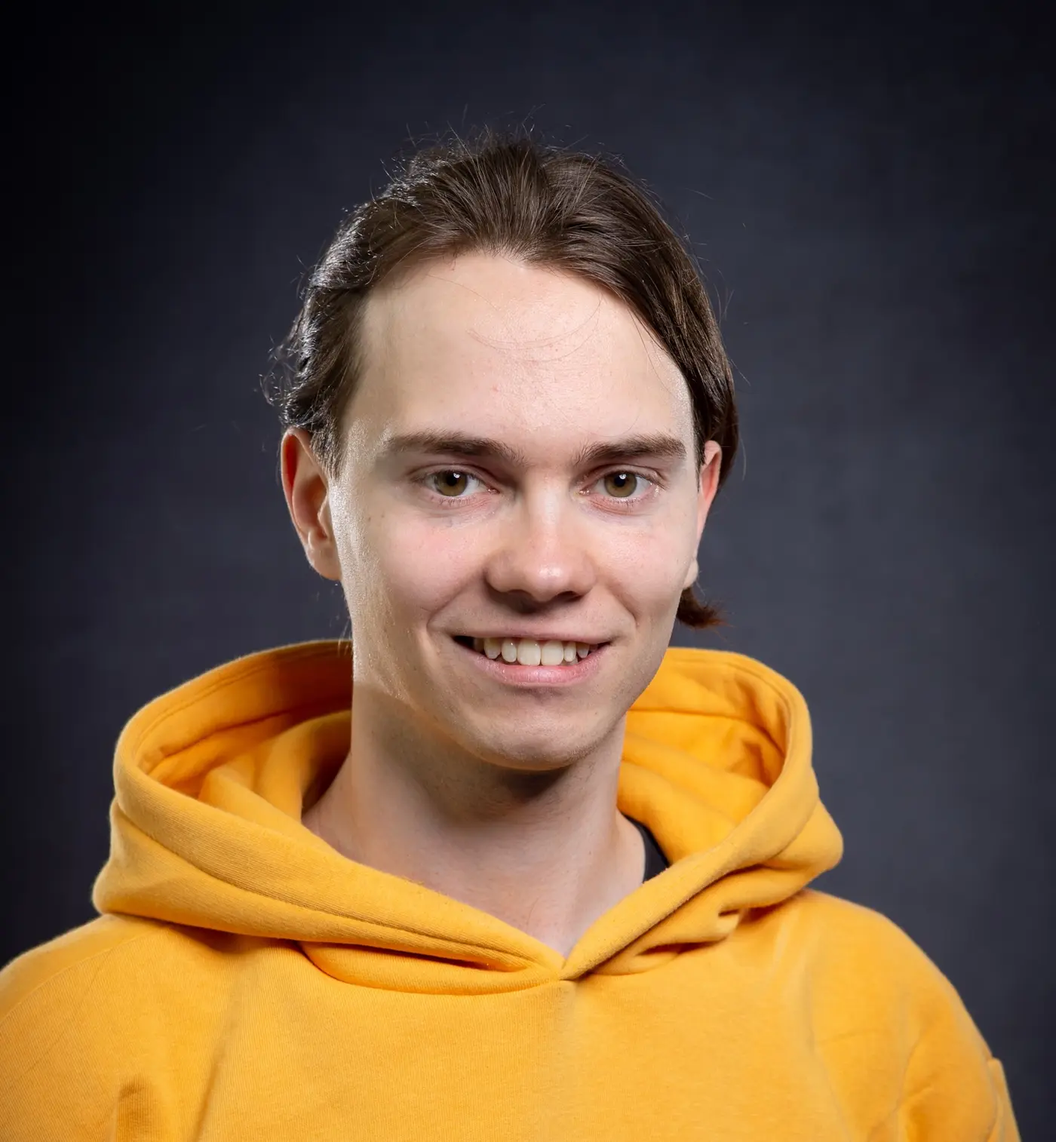
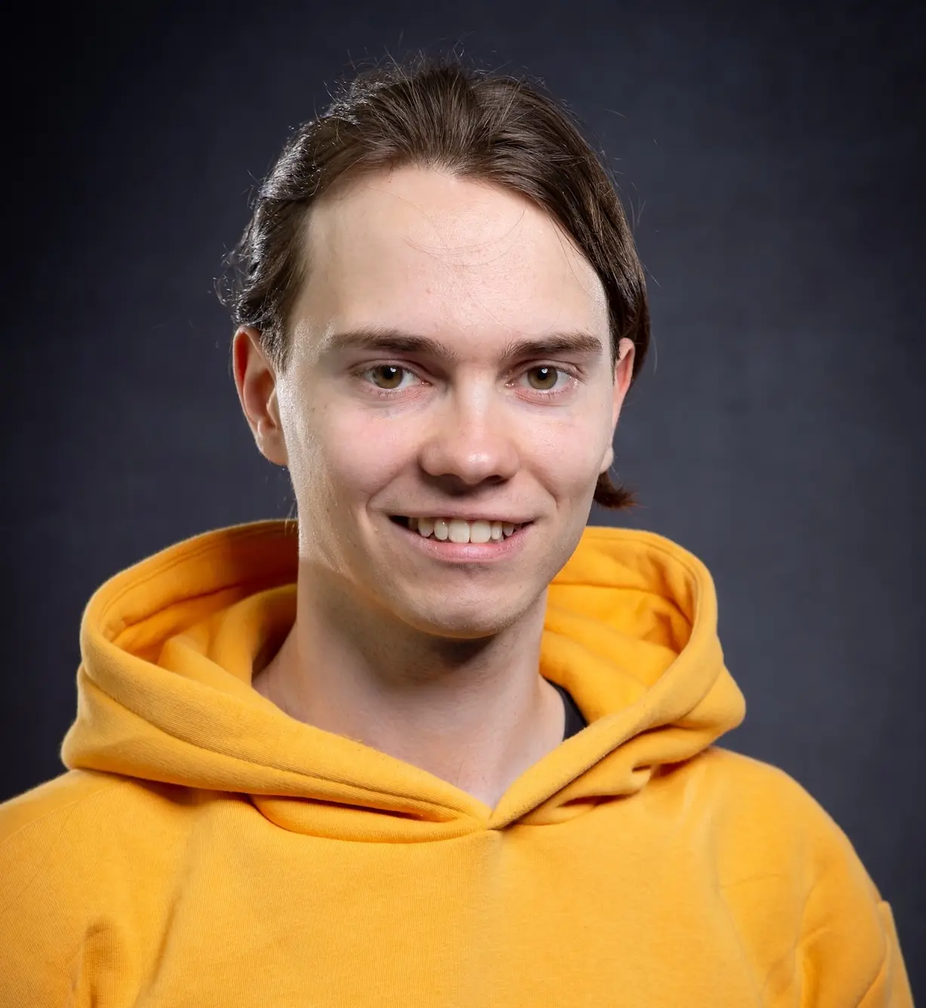
Deploying to gh-pages from @ trl-lab/trl-lab.github.io@b034dde033617641a6027af4285fbed842609a7c 🚀

diff --git a/people/index.html b/people/index.html
@@ -1,4 +1,4 @@
-<!DOCTYPE html> <html lang="en"> <head> <meta http-equiv="Content-Type" content="text/html; charset=UTF-8"> <meta charset="utf-8"> <meta name="viewport" content="width=device-width, initial-scale=1, shrink-to-fit=no"> <meta http-equiv="X-UA-Compatible" content="IE=edge"> <title> People | TRL Lab </title> <meta name="author" content=" "> <meta name="description" content="Members and collaborators of the TRL lab"> <meta name="keywords" content="jekyll, jekyll-theme, academic-website, portfolio-website"> <link rel="stylesheet" href="/assets/css/bootstrap.min.css?a4b3f509e79c54a512b890d73235ef04"> <link rel="stylesheet" href="https://cdn.jsdelivr.net/npm/mdbootstrap@4.20.0/css/mdb.min.css" integrity="sha256-jpjYvU3G3N6nrrBwXJoVEYI/0zw8htfFnhT9ljN3JJw=" crossorigin="anonymous"> <link defer rel="stylesheet" href="/assets/css/academicons.min.css?f0b7046b84e425c55f3463ac249818f5"> <link defer rel="stylesheet" href="/assets/css/scholar-icons.css?62b2ac103a88034e6882a5be5f3e2772"> <link defer rel="stylesheet" type="text/css" href="https://fonts.googleapis.com/css?family=Roboto:300,400,500,700|Roboto+Slab:100,300,400,500,700|Material+Icons&amp;display=swap"> <link defer rel="stylesheet" href="/assets/css/jekyll-pygments-themes-github.css?591dab5a4e56573bf4ef7fd332894c99" media="" id="highlight_theme_light"> <link rel="shortcut icon" href="/assets/img/trl-lab-logo.jpg?8d1b6aa69168ea44dfed1a81e9adb7d0"> <link rel="stylesheet" href="/assets/css/main.css?d41d8cd98f00b204e9800998ecf8427e"> <link rel="canonical" href="https://trl-lab.github.io//people/"> <script src="/assets/js/theme.js?9a0c749ec5240d9cda97bc72359a72c0"></script> </head> <body class="fixed-top-nav "> <header> <nav id="navbar" class="navbar navbar-light navbar-expand-sm fixed-top" role="navigation"> <div class="container"> <a class="navbar-brand title font-weight-lighter" href="/"> TRL Lab </a> <button class="navbar-toggler collapsed ml-auto" type="button" data-toggle="collapse" data-target="#navbarNav" aria-controls="navbarNav" aria-expanded="false" aria-label="Toggle navigation"> <span class="sr-only">Toggle navigation</span> <span class="icon-bar top-bar"></span> <span class="icon-bar middle-bar"></span> <span class="icon-bar bottom-bar"></span> </button> <div class="collapse navbar-collapse text-right" id="navbarNav"> <ul class="navbar-nav ml-auto flex-nowrap"> <li class="nav-item "> <a class="nav-link" href="/">About </a> </li> <li class="nav-item active"> <a class="nav-link" href="/people/">People <span class="sr-only">(current)</span> </a> </li> <li class="nav-item "> <a class="nav-link" href="/publications/">Publications </a> </li> <li class="nav-item "> <a class="nav-link" href="/open-positions/">Open positions </a> </li> <li class="nav-item "> <a class="nav-link" href="/blog/">Blog </a> </li> <li class="nav-item dropdown "> <a class="nav-link dropdown-toggle" href="#" id="navbarDropdown" role="button" data-toggle="dropdown" aria-haspopup="true" aria-expanded="false">Events </a> <div class="dropdown-menu dropdown-menu-right" aria-labelledby="navbarDropdown"> <a class="dropdown-item " href="/trl-seminar/">TRL seminar</a> <a class="dropdown-item " href="/trl-reading-group/">TRL reading group</a> </div> </li> </ul> </div> </div> </nav> <progress id="progress" value="0"> <div class="progress-container"> <span class="progress-bar"></span> </div> </progress> </header> <div class="container mt-5" role="main"> <div class="post"> <header class="post-header"> <h1 class="post-title">People</h1> <p class="post-description">Members and collaborators of the TRL lab</p> </header> <article> <div class="people"> <a id="current" href=".#current"> <h2 class="category">current</h2> </a> <div class="row row-cols-1 row-cols-md-3"> <div class="col"> <a href="https://www.madelonhulsebos.com" rel="external nofollow noopener" target="_blank"> <div class="card h-100 hoverable"> <figure> <picture> <source class="responsive-img-srcset" srcset="/assets/img/madelon-hulsebos-480.webp 480w,/assets/img/madelon-hulsebos-800.webp 800w,/assets/img/madelon-hulsebos-1400.webp 1400w," type="image/webp" sizes="250px"></source> <img src="/assets/img/madelon-hulsebos.jpeg" class="card-img-top" width="100%" height="auto" loading="eager" onerror="this.onerror=null; $('.responsive-img-srcset').remove();"> </picture> </figure> <div class="card-body"> <h4 class="card-title">Madelon Hulsebos</h4> <p class="card-text">Faculty</p> <div class="row ml-1 mr-1 p-0"> </div> </div> </div> </a> </div> <div class="col"> <a href="https://aeciosantos.com/" rel="external nofollow noopener" target="_blank"> <div class="card h-100 hoverable"> <figure> <picture> <source class="responsive-img-srcset" srcset="/assets/img/aecio-santos-480.webp 480w,/assets/img/aecio-santos-800.webp 800w,/assets/img/aecio-santos-1400.webp 1400w," type="image/webp" sizes="250px"></source> <img src="/assets/img/aecio-santos.jpeg" class="card-img-top" width="100%" height="auto" loading="eager" onerror="this.onerror=null; $('.responsive-img-srcset').remove();"> </picture> </figure> <div class="card-body"> <h4 class="card-title">Aécio Santos</h4> <p class="card-text">Postdoctoral researcher</p> <div class="row ml-1 mr-1 p-0"> </div> </div> </div> </a> </div> <div class="col"> <a href="https://effyli.github.io/" rel="external nofollow noopener" target="_blank"> <div class="card h-100 hoverable"> <figure> <picture> <source class="responsive-img-srcset" srcset="/assets/img/xue-li-480.webp 480w,/assets/img/xue-li-800.webp 800w,/assets/img/xue-li-1400.webp 1400w," type="image/webp" sizes="250px"></source> <img src="/assets/img/xue-li.png" class="card-img-top" width="100%" height="auto" loading="eager" onerror="this.onerror=null; $('.responsive-img-srcset').remove();"> </picture> </figure> <div class="card-body"> <h4 class="card-title">Xue (Effy) Li</h4> <p class="card-text">Postdoctoral researcher</p> <div class="row ml-1 mr-1 p-0"> </div> </div> </div> </a> </div> <div class="col"> <a href="https://www.daniel-gomm.com/" rel="external nofollow noopener" target="_blank"> <div class="card h-100 hoverable"> <figure> <picture> <source class="responsive-img-srcset" srcset="/assets/img/daniel-gomm-480.webp 480w,/assets/img/daniel-gomm-800.webp 800w,/assets/img/daniel-gomm-1400.webp 1400w," type="image/webp" sizes="250px"></source> <img src="/assets/img/daniel-gomm.jpg" class="card-img-top" width="100%" height="auto" loading="eager" onerror="this.onerror=null; $('.responsive-img-srcset').remove();"> </picture> </figure> <div class="card-body"> <h4 class="card-title">Daniel Gomm</h4> <p class="card-text">PhD researcher</p> <div class="row ml-1 mr-1 p-0"> </div> </div> </div> </a> </div> <div class="col"> <a href="https://github.com/cowolff" rel="external nofollow noopener" target="_blank"> <div class="card h-100 hoverable"> <figure> <picture> <source class="responsive-img-srcset" srcset="/assets/img/cornelius-wolff-480.webp 480w,/assets/img/cornelius-wolff-800.webp 800w,/assets/img/cornelius-wolff-1400.webp 1400w," type="image/webp" sizes="250px"></source> <img src="/assets/img/cornelius-wolff.jpeg" class="card-img-top" width="100%" height="auto" loading="eager" onerror="this.onerror=null; $('.responsive-img-srcset').remove();"> </picture> </figure> <div class="card-body"> <h4 class="card-title">Cornelius Wolff</h4> <p class="card-text">PhD researcher</p> <div class="row ml-1 mr-1 p-0"> </div> </div> </div> </a> </div> <div class="col"> <a href="https://rohith-prabakaran.github.io/" rel="external nofollow noopener" target="_blank"> <div class="card h-100 hoverable"> <figure> <picture> <source class="responsive-img-srcset" srcset="/assets/img/rohith-480.webp 480w,/assets/img/rohith-800.webp 800w,/assets/img/rohith-1400.webp 1400w," type="image/webp" sizes="250px"></source> <img src="/assets/img/rohith.jpeg" class="card-img-top" width="100%" height="auto" loading="eager" onerror="this.onerror=null; $('.responsive-img-srcset').remove();"> </picture> </figure> <div class="card-body"> <h4 class="card-title">Rohith Prabakaran</h4> <p class="card-text">PhD researcher</p> <div class="row ml-1 mr-1 p-0"> </div> </div> </div> </a> </div> <div class="col"> <a href="https://de.linkedin.com/in/jan-henrik-bertrand-01a2871a0" rel="external nofollow noopener" target="_blank"> <div class="card h-100 hoverable"> <figure> <picture> <source class="responsive-img-srcset" srcset="/assets/img/janhenrik-bertrand-480.webp 480w,/assets/img/janhenrik-bertrand-800.webp 800w,/assets/img/janhenrik-bertrand-1400.webp 1400w," type="image/webp" sizes="250px"></source> <img src="/assets/img/janhenrik-bertrand.jpeg" class="card-img-top" width="100%" height="auto" loading="eager" onerror="this.onerror=null; $('.responsive-img-srcset').remove();"> </picture> </figure> <div class="card-body"> <h4 class="card-title">Jan Henrik Bertrand</h4> <p class="card-text">Research student (ELLIS Honours Program, UvA)</p> <div class="row ml-1 mr-1 p-0"> </div> </div> </div> </a> </div> <div class="col"> <a href="https://nl.linkedin.com/in/wojciech-kosiuk" rel="external nofollow noopener" target="_blank"> <div class="card h-100 hoverable"> <figure> <picture> <source class="responsive-img-srcset" srcset="/assets/img/wojciech-kosiuk-480.webp 480w,/assets/img/wojciech-kosiuk-800.webp 800w,/assets/img/wojciech-kosiuk-1400.webp 1400w," type="image/webp" sizes="250px"></source> <img src="/assets/img/wojciech-kosiuk.jpeg" class="card-img-top" width="100%" height="auto" loading="eager" onerror="this.onerror=null; $('.responsive-img-srcset').remove();"> </picture> </figure> <div class="card-body"> <h4 class="card-title">Wojciech Kosiuk</h4> <p class="card-text">Research student (ELLIS Honours Program, UvA)</p> <div class="row ml-1 mr-1 p-0"> </div> </div> </div> </a> </div> <div class="col"> <a href="https://nl.linkedin.com/in/ahmedomaro" rel="external nofollow noopener" target="_blank"> <div class="card h-100 hoverable"> <figure> <picture> <source class="responsive-img-srcset" srcset="/assets/img/5-480.webp 480w,/assets/img/5-800.webp 800w,/assets/img/5-1400.webp 1400w," type="image/webp" sizes="250px"></source> <img src="/assets/img/5.jpg" class="card-img-top" width="100%" height="auto" loading="eager" onerror="this.onerror=null; $('.responsive-img-srcset').remove();"> </picture> </figure> <div class="card-body"> <h4 class="card-title">Ahmed Omar</h4> <p class="card-text">Research student (MSc, Utrecht University)</p> <div class="row ml-1 mr-1 p-0"> </div> </div> </div> </a> </div> <div class="col"> <a href="https://nl.linkedin.com/in/lisa-van-oosten-153037107/en?trk=people-guest_people_search-card" rel="external nofollow noopener" target="_blank"> <div class="card h-100 hoverable"> <figure> <picture> <source class="responsive-img-srcset" srcset="/assets/img/lisa-vanoosten-480.webp 480w,/assets/img/lisa-vanoosten-800.webp 800w,/assets/img/lisa-vanoosten-1400.webp 1400w," type="image/webp" sizes="250px"></source> <img src="/assets/img/lisa-vanoosten.jpg" class="card-img-top" width="100%" height="auto" loading="eager" onerror="this.onerror=null; $('.responsive-img-srcset').remove();"> </picture> </figure> <div class="card-body"> <h4 class="card-title">Lisa van Oosten</h4> <p class="card-text">Research student (MSc, UvA)</p> <div class="row ml-1 mr-1 p-0"> </div> </div> </div> </a> </div> <div class="col"> <a href="https://www.linkedin.com/in/hongqian-xia-a86866171/" rel="external nofollow noopener" target="_blank"> <div class="card h-100 hoverable"> <figure> <picture> <source class="responsive-img-srcset" srcset="/assets/img/hongqian-xia-480.webp 480w,/assets/img/hongqian-xia-800.webp 800w,/assets/img/hongqian-xia-1400.webp 1400w," type="image/webp" sizes="250px"></source> <img src="/assets/img/hongqian-xia.jpg" class="card-img-top" width="100%" height="auto" loading="eager" onerror="this.onerror=null; $('.responsive-img-srcset').remove();"> </picture> </figure> <div class="card-body"> <h4 class="card-title">Hongqian Xia</h4> <p class="card-text">Research student (MSc, UvA/VU Amsterdam)</p> <div class="row ml-1 mr-1 p-0"> </div> </div> </div> </a> </div> <div class="col"> <a href="https://se.linkedin.com/in/daniel-de-dios-allegue" rel="external nofollow noopener" target="_blank"> <div class="card h-100 hoverable"> <figure> <picture> <source class="responsive-img-srcset" srcset="/assets/img/daniel-dedios-allegue-480.webp 480w,/assets/img/daniel-dedios-allegue-800.webp 800w,/assets/img/daniel-dedios-allegue-1400.webp 1400w," type="image/webp" sizes="250px"></source> <img src="/assets/img/daniel-dedios-allegue.jpg" class="card-img-top" width="100%" height="auto" loading="eager" onerror="this.onerror=null; $('.responsive-img-srcset').remove();"> </picture> </figure> <div class="card-body"> <h4 class="card-title">Daniel De Dios Allegue</h4> <p class="card-text">Research student (BSc, TU Delft)</p> <div class="row ml-1 mr-1 p-0"> </div> </div> </div> </a> </div> <div class="col"> <a href="https://nl.linkedin.com/in/louisgehringer" rel="external nofollow noopener" target="_blank"> <div class="card h-100 hoverable"> <figure> <picture> <source class="responsive-img-srcset" srcset="/assets/img/louis-gehringer-480.webp 480w,/assets/img/louis-gehringer-800.webp 800w,/assets/img/louis-gehringer-1400.webp 1400w," type="image/webp" sizes="250px"></source> <img src="/assets/img/louis-gehringer.jpeg" class="card-img-top" width="100%" height="auto" loading="eager" onerror="this.onerror=null; $('.responsive-img-srcset').remove();"> </picture> </figure> <div class="card-body"> <h4 class="card-title">Louis Gehringer</h4> <p class="card-text">Research student (MSc, UvA)</p> <div class="row ml-1 mr-1 p-0"> </div> </div> </div> </a> </div> <div class="col"> <a href="hhttps://nl.linkedin.com/in/yme-kingma-329390312"> <div class="card h-100 hoverable"> <figure> <picture> <source class="responsive-img-srcset" srcset="/assets/img/yme-kingma-480.webp 480w,/assets/img/yme-kingma-800.webp 800w,/assets/img/yme-kingma-1400.webp 1400w," type="image/webp" sizes="250px"></source> <img src="/assets/img/yme-kingma.jpg" class="card-img-top" width="100%" height="auto" loading="eager" onerror="this.onerror=null; $('.responsive-img-srcset').remove();"> </picture> </figure> <div class="card-body"> <h4 class="card-title">Yme Kingma</h4> <p class="card-text">Research student (MSc, Radboud University)</p> <div class="row ml-1 mr-1 p-0"> </div> </div> </div> </a> </div> </div> <a id="collaborators" href=".#collaborators"> <h2 class="category">collaborators</h2> </a> <div class="row row-cols-1 row-cols-md-3"> <div class="col"> <a href="/people/xingyucarlji/"> <div class="card h-100 hoverable"> <figure> <picture> <source class="responsive-img-srcset" srcset="/assets/img/carl-ji-480.webp 480w,/assets/img/carl-ji-800.webp 800w,/assets/img/carl-ji-1400.webp 1400w," type="image/webp" sizes="250px"></source> <img src="/assets/img/carl-ji.jpg" class="card-img-top" width="100%" height="auto" loading="eager" onerror="this.onerror=null; $('.responsive-img-srcset').remove();"> </picture> </figure> <div class="card-body"> <h4 class="card-title">Xingyu (Carl) Ji</h4> <p class="card-text">Collaborator</p> <div class="row ml-1 mr-1 p-0"> </div> </div> </div> </a> </div> <div class="col"> <a href="/people/wenjinglin/"> <div class="card h-100 hoverable"> <figure> <picture> <source class="responsive-img-srcset" srcset="/assets/img/wenjing-lin-480.webp 480w,/assets/img/wenjing-lin-800.webp 800w,/assets/img/wenjing-lin-1400.webp 1400w," type="image/webp" sizes="250px"></source> <img src="/assets/img/wenjing-lin.jpeg" class="card-img-top" width="100%" height="auto" loading="eager" onerror="this.onerror=null; $('.responsive-img-srcset').remove();"> </picture> </figure> <div class="card-body"> <h4 class="card-title">Wenjing Lin</h4> <p class="card-text">Collaborator</p> <div class="row ml-1 mr-1 p-0"> </div> </div> </div> </a> </div> </div> <a id="alumni" href=".#alumni"> <h2 class="category">alumni</h2> </a> <div class="row row-cols-1 row-cols-md-3"> <div class="col"> <a href="https://www.illc.uva.nl/People/Students/person/5565/Liang-Telkamp" rel="external nofollow noopener" target="_blank"> <div class="card h-100 hoverable"> <figure> <picture> <source class="responsive-img-srcset" srcset="/assets/img/liang-telkamp-480.webp 480w,/assets/img/liang-telkamp-800.webp 800w,/assets/img/liang-telkamp-1400.webp 1400w," type="image/webp" sizes="250px"></source> <img src="/assets/img/liang-telkamp.jpg" class="card-img-top" width="100%" height="auto" loading="eager" onerror="this.onerror=null; $('.responsive-img-srcset').remove();"> </picture> </figure> <div class="card-body"> <h4 class="card-title">Liang Telkamp</h4> <p class="card-text">Research student</p> <div class="row ml-1 mr-1 p-0"> </div> </div> </div> </a> </div> <div class="col"> <a href="https://scholar.google.com/citations?user=AfDUD-gAAAAJ&amp;hl=en" rel="external nofollow noopener" target="_blank"> <div class="card h-100 hoverable"> <figure> <picture> <source class="responsive-img-srcset" srcset="/assets/img/nikola-selic-480.webp 480w,/assets/img/nikola-selic-800.webp 800w,/assets/img/nikola-selic-1400.webp 1400w," type="image/webp" sizes="250px"></source> <img src="/assets/img/nikola-selic.png" class="card-img-top" width="100%" height="auto" loading="eager" onerror="this.onerror=null; $('.responsive-img-srcset').remove();"> </picture> </figure> <div class="card-body"> <h4 class="card-title">Nikola Selić</h4> <p class="card-text">Research student</p> <div class="row ml-1 mr-1 p-0"> </div> </div> </div> </a> </div> </div> </div> </article> </div> </div> <footer class="fixed-bottom" role="contentinfo"> <div class="container mt-0"> © Copyright 2026 . Powered by <a href="https://jekyllrb.com/" target="_blank" rel="external nofollow noopener">Jekyll</a> with <a href="https://github.com/alshedivat/al-folio" rel="external nofollow noopener" target="_blank">al-folio</a> theme. </div> </footer> <script src="https://cdn.jsdelivr.net/npm/jquery@3.6.0/dist/jquery.min.js" integrity="sha256-/xUj+3OJU5yExlq6GSYGSHk7tPXikynS7ogEvDej/m4=" crossorigin="anonymous"></script> <script src="/assets/js/bootstrap.bundle.min.js"></script> <script src="https://cdn.jsdelivr.net/npm/mdbootstrap@4.20.0/js/mdb.min.js" integrity="sha256-NdbiivsvWt7VYCt6hYNT3h/th9vSTL4EDWeGs5SN3DA=" crossorigin="anonymous"></script> <script defer src="https://cdn.jsdelivr.net/npm/masonry-layout@4.2.2/dist/masonry.pkgd.min.js" integrity="sha256-Nn1q/fx0H7SNLZMQ5Hw5JLaTRZp0yILA/FRexe19VdI=" crossorigin="anonymous"></script> <script defer src="https://cdn.jsdelivr.net/npm/imagesloaded@5.0.0/imagesloaded.pkgd.min.js" integrity="sha256-htrLFfZJ6v5udOG+3kNLINIKh2gvoKqwEhHYfTTMICc=" crossorigin="anonymous"></script> <script defer src="/assets/js/masonry.js?a0db7e5d5c70cc3252b3138b0c91dcaf" type="text/javascript"></script> <script defer src="https://cdn.jsdelivr.net/npm/medium-zoom@1.1.0/dist/medium-zoom.min.js" integrity="sha256-ZgMyDAIYDYGxbcpJcfUnYwNevG/xi9OHKaR/8GK+jWc=" crossorigin="anonymous"></script> <script defer src="/assets/js/zoom.js?85ddb88934d28b74e78031fd54cf8308"></script> <script src="/assets/js/no_defer.js?2781658a0a2b13ed609542042a859126"></script> <script defer src="/assets/js/common.js?e0514a05c5c95ac1a93a8dfd5249b92e"></script> <script defer src="/assets/js/copy_code.js?12775fdf7f95e901d7119054556e495f" type="text/javascript"></script> <script defer src="/assets/js/jupyter_new_tab.js?d9f17b6adc2311cbabd747f4538bb15f"></script> <script async src="https://d1bxh8uas1mnw7.cloudfront.net/assets/embed.js"></script> <script async src="https://badge.dimensions.ai/badge.js"></script> <script defer type="text/javascript" id="MathJax-script" src="https://cdn.jsdelivr.net/npm/mathjax@3.2.2/es5/tex-mml-chtml.js" integrity="sha256-MASABpB4tYktI2Oitl4t+78w/lyA+D7b/s9GEP0JOGI=" crossorigin="anonymous"></script> <script src="/assets/js/mathjax-setup.js?a5bb4e6a542c546dd929b24b8b236dfd"></script> <script defer src="https://cdnjs.cloudflare.com/polyfill/v3/polyfill.min.js?features=es6" crossorigin="anonymous"></script> <script async src="https://www.googletagmanager.com/gtag/js?id=G-4YPBWP7QYF"></script> <script>
+<!DOCTYPE html> <html lang="en"> <head> <meta http-equiv="Content-Type" content="text/html; charset=UTF-8"> <meta charset="utf-8"> <meta name="viewport" content="width=device-width, initial-scale=1, shrink-to-fit=no"> <meta http-equiv="X-UA-Compatible" content="IE=edge"> <title> People | TRL Lab </title> <meta name="author" content=" "> <meta name="description" content="Members and collaborators of the TRL lab"> <meta name="keywords" content="jekyll, jekyll-theme, academic-website, portfolio-website"> <link rel="stylesheet" href="/assets/css/bootstrap.min.css?a4b3f509e79c54a512b890d73235ef04"> <link rel="stylesheet" href="https://cdn.jsdelivr.net/npm/mdbootstrap@4.20.0/css/mdb.min.css" integrity="sha256-jpjYvU3G3N6nrrBwXJoVEYI/0zw8htfFnhT9ljN3JJw=" crossorigin="anonymous"> <link defer rel="stylesheet" href="/assets/css/academicons.min.css?f0b7046b84e425c55f3463ac249818f5"> <link defer rel="stylesheet" href="/assets/css/scholar-icons.css?62b2ac103a88034e6882a5be5f3e2772"> <link defer rel="stylesheet" type="text/css" href="https://fonts.googleapis.com/css?family=Roboto:300,400,500,700|Roboto+Slab:100,300,400,500,700|Material+Icons&amp;display=swap"> <link defer rel="stylesheet" href="/assets/css/jekyll-pygments-themes-github.css?591dab5a4e56573bf4ef7fd332894c99" media="" id="highlight_theme_light"> <link rel="shortcut icon" href="/assets/img/trl-lab-logo.jpg?8d1b6aa69168ea44dfed1a81e9adb7d0"> <link rel="stylesheet" href="/assets/css/main.css?d41d8cd98f00b204e9800998ecf8427e"> <link rel="canonical" href="https://trl-lab.github.io//people/"> <script src="/assets/js/theme.js?9a0c749ec5240d9cda97bc72359a72c0"></script> </head> <body class="fixed-top-nav "> <header> <nav id="navbar" class="navbar navbar-light navbar-expand-sm fixed-top" role="navigation"> <div class="container"> <a class="navbar-brand title font-weight-lighter" href="/"> TRL Lab </a> <button class="navbar-toggler collapsed ml-auto" type="button" data-toggle="collapse" data-target="#navbarNav" aria-controls="navbarNav" aria-expanded="false" aria-label="Toggle navigation"> <span class="sr-only">Toggle navigation</span> <span class="icon-bar top-bar"></span> <span class="icon-bar middle-bar"></span> <span class="icon-bar bottom-bar"></span> </button> <div class="collapse navbar-collapse text-right" id="navbarNav"> <ul class="navbar-nav ml-auto flex-nowrap"> <li class="nav-item "> <a class="nav-link" href="/">About </a> </li> <li class="nav-item active"> <a class="nav-link" href="/people/">People <span class="sr-only">(current)</span> </a> </li> <li class="nav-item "> <a class="nav-link" href="/publications/">Publications </a> </li> <li class="nav-item "> <a class="nav-link" href="/open-positions/">Open positions </a> </li> <li class="nav-item "> <a class="nav-link" href="/blog/">Blog </a> </li> <li class="nav-item dropdown "> <a class="nav-link dropdown-toggle" href="#" id="navbarDropdown" role="button" data-toggle="dropdown" aria-haspopup="true" aria-expanded="false">Events </a> <div class="dropdown-menu dropdown-menu-right" aria-labelledby="navbarDropdown"> <a class="dropdown-item " href="/trl-seminar/">TRL seminar</a> <a class="dropdown-item " href="/trl-reading-group/">TRL reading group</a> </div> </li> </ul> </div> </div> </nav> <progress id="progress" value="0"> <div class="progress-container"> <span class="progress-bar"></span> </div> </progress> </header> <div class="container mt-5" role="main"> <div class="post"> <header class="post-header"> <h1 class="post-title">People</h1> <p class="post-description">Members and collaborators of the TRL lab</p> </header> <article> <div class="people"> <a id="current" href=".#current"> <h2 class="category">current</h2> </a> <div class="row row-cols-1 row-cols-md-3"> <div class="col"> <a href="https://www.madelonhulsebos.com" rel="external nofollow noopener" target="_blank"> <div class="card h-100 hoverable"> <figure> <picture> <source class="responsive-img-srcset" srcset="/assets/img/madelon-hulsebos-480.webp 480w,/assets/img/madelon-hulsebos-800.webp 800w,/assets/img/madelon-hulsebos-1400.webp 1400w," type="image/webp" sizes="250px"></source> <img src="/assets/img/madelon-hulsebos.jpeg" class="card-img-top" width="100%" height="auto" loading="eager" onerror="this.onerror=null; $('.responsive-img-srcset').remove();"> </picture> </figure> <div class="card-body"> <h4 class="card-title">Madelon Hulsebos</h4> <p class="card-text">Faculty</p> <div class="row ml-1 mr-1 p-0"> </div> </div> </div> </a> </div> <div class="col"> <a href="https://aeciosantos.com/" rel="external nofollow noopener" target="_blank"> <div class="card h-100 hoverable"> <figure> <picture> <source class="responsive-img-srcset" srcset="/assets/img/aecio-santos-480.webp 480w,/assets/img/aecio-santos-800.webp 800w,/assets/img/aecio-santos-1400.webp 1400w," type="image/webp" sizes="250px"></source> <img src="/assets/img/aecio-santos.jpeg" class="card-img-top" width="100%" height="auto" loading="eager" onerror="this.onerror=null; $('.responsive-img-srcset').remove();"> </picture> </figure> <div class="card-body"> <h4 class="card-title">Aécio Santos</h4> <p class="card-text">Postdoctoral researcher</p> <div class="row ml-1 mr-1 p-0"> </div> </div> </div> </a> </div> <div class="col"> <a href="https://effyli.github.io/" rel="external nofollow noopener" target="_blank"> <div class="card h-100 hoverable"> <figure> <picture> <source class="responsive-img-srcset" srcset="/assets/img/xue-li-480.webp 480w,/assets/img/xue-li-800.webp 800w,/assets/img/xue-li-1400.webp 1400w," type="image/webp" sizes="250px"></source> <img src="/assets/img/xue-li.png" class="card-img-top" width="100%" height="auto" loading="eager" onerror="this.onerror=null; $('.responsive-img-srcset').remove();"> </picture> </figure> <div class="card-body"> <h4 class="card-title">Xue (Effy) Li</h4> <p class="card-text">Postdoctoral researcher</p> <div class="row ml-1 mr-1 p-0"> </div> </div> </div> </a> </div> <div class="col"> <a href="https://www.daniel-gomm.com/" rel="external nofollow noopener" target="_blank"> <div class="card h-100 hoverable"> <figure> <picture> <source class="responsive-img-srcset" srcset="/assets/img/daniel-gomm-480.webp 480w,/assets/img/daniel-gomm-800.webp 800w,/assets/img/daniel-gomm-1400.webp 1400w," type="image/webp" sizes="250px"></source> <img src="/assets/img/daniel-gomm.jpg" class="card-img-top" width="100%" height="auto" loading="eager" onerror="this.onerror=null; $('.responsive-img-srcset').remove();"> </picture> </figure> <div class="card-body"> <h4 class="card-title">Daniel Gomm</h4> <p class="card-text">PhD researcher</p> <div class="row ml-1 mr-1 p-0"> </div> </div> </div> </a> </div> <div class="col"> <a href="https://github.com/cowolff" rel="external nofollow noopener" target="_blank"> <div class="card h-100 hoverable"> <figure> <picture> <source class="responsive-img-srcset" srcset="/assets/img/cornelius-wolff-480.webp 480w,/assets/img/cornelius-wolff-800.webp 800w,/assets/img/cornelius-wolff-1400.webp 1400w," type="image/webp" sizes="250px"></source> <img src="/assets/img/cornelius-wolff.jpeg" class="card-img-top" width="100%" height="auto" loading="eager" onerror="this.onerror=null; $('.responsive-img-srcset').remove();"> </picture> </figure> <div class="card-body"> <h4 class="card-title">Cornelius Wolff</h4> <p class="card-text">PhD researcher</p> <div class="row ml-1 mr-1 p-0"> </div> </div> </div> </a> </div> <div class="col"> <a href="https://rohith-prabakaran.github.io/" rel="external nofollow noopener" target="_blank"> <div class="card h-100 hoverable"> <figure> <picture> <source class="responsive-img-srcset" srcset="/assets/img/rohith-480.webp 480w,/assets/img/rohith-800.webp 800w,/assets/img/rohith-1400.webp 1400w," type="image/webp" sizes="250px"></source> <img src="/assets/img/rohith.jpeg" class="card-img-top" width="100%" height="auto" loading="eager" onerror="this.onerror=null; $('.responsive-img-srcset').remove();"> </picture> </figure> <div class="card-body"> <h4 class="card-title">Rohith Prabakaran</h4> <p class="card-text">PhD researcher</p> <div class="row ml-1 mr-1 p-0"> </div> </div> </div> </a> </div> <div class="col"> <a href="https://de.linkedin.com/in/jan-henrik-bertrand-01a2871a0" rel="external nofollow noopener" target="_blank"> <div class="card h-100 hoverable"> <figure> <picture> <source class="responsive-img-srcset" srcset="/assets/img/janhenrik-bertrand-480.webp 480w,/assets/img/janhenrik-bertrand-800.webp 800w,/assets/img/janhenrik-bertrand-1400.webp 1400w," type="image/webp" sizes="250px"></source> <img src="/assets/img/janhenrik-bertrand.jpeg" class="card-img-top" width="100%" height="auto" loading="eager" onerror="this.onerror=null; $('.responsive-img-srcset').remove();"> </picture> </figure> <div class="card-body"> <h4 class="card-title">Jan Henrik Bertrand</h4> <p class="card-text">Research student (ELLIS Honours Program, UvA)</p> <div class="row ml-1 mr-1 p-0"> </div> </div> </div> </a> </div> <div class="col"> <a href="https://nl.linkedin.com/in/wojciech-kosiuk" rel="external nofollow noopener" target="_blank"> <div class="card h-100 hoverable"> <figure> <picture> <source class="responsive-img-srcset" srcset="/assets/img/wojciech-kosiuk-480.webp 480w,/assets/img/wojciech-kosiuk-800.webp 800w,/assets/img/wojciech-kosiuk-1400.webp 1400w," type="image/webp" sizes="250px"></source> <img src="/assets/img/wojciech-kosiuk.jpeg" class="card-img-top" width="100%" height="auto" loading="eager" onerror="this.onerror=null; $('.responsive-img-srcset').remove();"> </picture> </figure> <div class="card-body"> <h4 class="card-title">Wojciech Kosiuk</h4> <p class="card-text">Research student (ELLIS Honours Program, UvA)</p> <div class="row ml-1 mr-1 p-0"> </div> </div> </div> </a> </div> <div class="col"> <a href="https://nl.linkedin.com/in/ahmedomaro" rel="external nofollow noopener" target="_blank"> <div class="card h-100 hoverable"> <figure> <picture> <source class="responsive-img-srcset" srcset="/assets/img/ahmed-omar-480.webp 480w,/assets/img/ahmed-omar-800.webp 800w,/assets/img/ahmed-omar-1400.webp 1400w," type="image/webp" sizes="250px"></source> <img src="/assets/img/ahmed-omar.jpg" class="card-img-top" width="100%" height="auto" loading="eager" onerror="this.onerror=null; $('.responsive-img-srcset').remove();"> </picture> </figure> <div class="card-body"> <h4 class="card-title">Ahmed Omar</h4> <p class="card-text">Research student (MSc, Utrecht University)</p> <div class="row ml-1 mr-1 p-0"> </div> </div> </div> </a> </div> <div class="col"> <a href="https://nl.linkedin.com/in/lisa-van-oosten-153037107/en?trk=people-guest_people_search-card" rel="external nofollow noopener" target="_blank"> <div class="card h-100 hoverable"> <figure> <picture> <source class="responsive-img-srcset" srcset="/assets/img/lisa-vanoosten-480.webp 480w,/assets/img/lisa-vanoosten-800.webp 800w,/assets/img/lisa-vanoosten-1400.webp 1400w," type="image/webp" sizes="250px"></source> <img src="/assets/img/lisa-vanoosten.jpg" class="card-img-top" width="100%" height="auto" loading="eager" onerror="this.onerror=null; $('.responsive-img-srcset').remove();"> </picture> </figure> <div class="card-body"> <h4 class="card-title">Lisa van Oosten</h4> <p class="card-text">Research student (MSc, UvA)</p> <div class="row ml-1 mr-1 p-0"> </div> </div> </div> </a> </div> <div class="col"> <a href="https://www.linkedin.com/in/hongqian-xia-a86866171/" rel="external nofollow noopener" target="_blank"> <div class="card h-100 hoverable"> <figure> <picture> <source class="responsive-img-srcset" srcset="/assets/img/hongqian-xia-480.webp 480w,/assets/img/hongqian-xia-800.webp 800w,/assets/img/hongqian-xia-1400.webp 1400w," type="image/webp" sizes="250px"></source> <img src="/assets/img/hongqian-xia.jpg" class="card-img-top" width="100%" height="auto" loading="eager" onerror="this.onerror=null; $('.responsive-img-srcset').remove();"> </picture> </figure> <div class="card-body"> <h4 class="card-title">Hongqian Xia</h4> <p class="card-text">Research student (MSc, UvA/VU Amsterdam)</p> <div class="row ml-1 mr-1 p-0"> </div> </div> </div> </a> </div> <div class="col"> <a href="https://se.linkedin.com/in/daniel-de-dios-allegue" rel="external nofollow noopener" target="_blank"> <div class="card h-100 hoverable"> <figure> <picture> <source class="responsive-img-srcset" srcset="/assets/img/daniel-dedios-allegue-480.webp 480w,/assets/img/daniel-dedios-allegue-800.webp 800w,/assets/img/daniel-dedios-allegue-1400.webp 1400w," type="image/webp" sizes="250px"></source> <img src="/assets/img/daniel-dedios-allegue.jpg" class="card-img-top" width="100%" height="auto" loading="eager" onerror="this.onerror=null; $('.responsive-img-srcset').remove();"> </picture> </figure> <div class="card-body"> <h4 class="card-title">Daniel De Dios Allegue</h4> <p class="card-text">Research student (BSc, TU Delft)</p> <div class="row ml-1 mr-1 p-0"> </div> </div> </div> </a> </div> <div class="col"> <a href="https://nl.linkedin.com/in/louisgehringer" rel="external nofollow noopener" target="_blank"> <div class="card h-100 hoverable"> <figure> <picture> <source class="responsive-img-srcset" srcset="/assets/img/louis-gehringer-480.webp 480w,/assets/img/louis-gehringer-800.webp 800w,/assets/img/louis-gehringer-1400.webp 1400w," type="image/webp" sizes="250px"></source> <img src="/assets/img/louis-gehringer.jpeg" class="card-img-top" width="100%" height="auto" loading="eager" onerror="this.onerror=null; $('.responsive-img-srcset').remove();"> </picture> </figure> <div class="card-body"> <h4 class="card-title">Louis Gehringer</h4> <p class="card-text">Research student (MSc, UvA)</p> <div class="row ml-1 mr-1 p-0"> </div> </div> </div> </a> </div> <div class="col"> <a href="hhttps://nl.linkedin.com/in/yme-kingma-329390312"> <div class="card h-100 hoverable"> <figure> <picture> <source class="responsive-img-srcset" srcset="/assets/img/yme-kingma-480.webp 480w,/assets/img/yme-kingma-800.webp 800w,/assets/img/yme-kingma-1400.webp 1400w," type="image/webp" sizes="250px"></source> <img src="/assets/img/yme-kingma.jpg" class="card-img-top" width="100%" height="auto" loading="eager" onerror="this.onerror=null; $('.responsive-img-srcset').remove();"> </picture> </figure> <div class="card-body"> <h4 class="card-title">Yme Kingma</h4> <p class="card-text">Research student (MSc, Radboud University)</p> <div class="row ml-1 mr-1 p-0"> </div> </div> </div> </a> </div> </div> <a id="collaborators" href=".#collaborators"> <h2 class="category">collaborators</h2> </a> <div class="row row-cols-1 row-cols-md-3"> <div class="col"> <a href="/people/xingyucarlji/"> <div class="card h-100 hoverable"> <figure> <picture> <source class="responsive-img-srcset" srcset="/assets/img/carl-ji-480.webp 480w,/assets/img/carl-ji-800.webp 800w,/assets/img/carl-ji-1400.webp 1400w," type="image/webp" sizes="250px"></source> <img src="/assets/img/carl-ji.jpg" class="card-img-top" width="100%" height="auto" loading="eager" onerror="this.onerror=null; $('.responsive-img-srcset').remove();"> </picture> </figure> <div class="card-body"> <h4 class="card-title">Xingyu (Carl) Ji</h4> <p class="card-text">Collaborator</p> <div class="row ml-1 mr-1 p-0"> </div> </div> </div> </a> </div> <div class="col"> <a href="/people/wenjinglin/"> <div class="card h-100 hoverable"> <figure> <picture> <source class="responsive-img-srcset" srcset="/assets/img/wenjing-lin-480.webp 480w,/assets/img/wenjing-lin-800.webp 800w,/assets/img/wenjing-lin-1400.webp 1400w," type="image/webp" sizes="250px"></source> <img src="/assets/img/wenjing-lin.jpeg" class="card-img-top" width="100%" height="auto" loading="eager" onerror="this.onerror=null; $('.responsive-img-srcset').remove();"> </picture> </figure> <div class="card-body"> <h4 class="card-title">Wenjing Lin</h4> <p class="card-text">Collaborator</p> <div class="row ml-1 mr-1 p-0"> </div> </div> </div> </a> </div> </div> <a id="alumni" href=".#alumni"> <h2 class="category">alumni</h2> </a> <div class="row row-cols-1 row-cols-md-3"> <div class="col"> <a href="https://www.illc.uva.nl/People/Students/person/5565/Liang-Telkamp" rel="external nofollow noopener" target="_blank"> <div class="card h-100 hoverable"> <figure> <picture> <source class="responsive-img-srcset" srcset="/assets/img/liang-telkamp-480.webp 480w,/assets/img/liang-telkamp-800.webp 800w,/assets/img/liang-telkamp-1400.webp 1400w," type="image/webp" sizes="250px"></source> <img src="/assets/img/liang-telkamp.jpg" class="card-img-top" width="100%" height="auto" loading="eager" onerror="this.onerror=null; $('.responsive-img-srcset').remove();"> </picture> </figure> <div class="card-body"> <h4 class="card-title">Liang Telkamp</h4> <p class="card-text">Research student</p> <div class="row ml-1 mr-1 p-0"> </div> </div> </div> </a> </div> <div class="col"> <a href="https://scholar.google.com/citations?user=AfDUD-gAAAAJ&amp;hl=en" rel="external nofollow noopener" target="_blank"> <div class="card h-100 hoverable"> <figure> <picture> <source class="responsive-img-srcset" srcset="/assets/img/nikola-selic-480.webp 480w,/assets/img/nikola-selic-800.webp 800w,/assets/img/nikola-selic-1400.webp 1400w," type="image/webp" sizes="250px"></source> <img src="/assets/img/nikola-selic.png" class="card-img-top" width="100%" height="auto" loading="eager" onerror="this.onerror=null; $('.responsive-img-srcset').remove();"> </picture> </figure> <div class="card-body"> <h4 class="card-title">Nikola Selić</h4> <p class="card-text">Research student</p> <div class="row ml-1 mr-1 p-0"> </div> </div> </div> </a> </div> </div> </div> </article> </div> </div> <footer class="fixed-bottom" role="contentinfo"> <div class="container mt-0"> © Copyright 2026 . Powered by <a href="https://jekyllrb.com/" target="_blank" rel="external nofollow noopener">Jekyll</a> with <a href="https://github.com/alshedivat/al-folio" rel="external nofollow noopener" target="_blank">al-folio</a> theme. </div> </footer> <script src="https://cdn.jsdelivr.net/npm/jquery@3.6.0/dist/jquery.min.js" integrity="sha256-/xUj+3OJU5yExlq6GSYGSHk7tPXikynS7ogEvDej/m4=" crossorigin="anonymous"></script> <script src="/assets/js/bootstrap.bundle.min.js"></script> <script src="https://cdn.jsdelivr.net/npm/mdbootstrap@4.20.0/js/mdb.min.js" integrity="sha256-NdbiivsvWt7VYCt6hYNT3h/th9vSTL4EDWeGs5SN3DA=" crossorigin="anonymous"></script> <script defer src="https://cdn.jsdelivr.net/npm/masonry-layout@4.2.2/dist/masonry.pkgd.min.js" integrity="sha256-Nn1q/fx0H7SNLZMQ5Hw5JLaTRZp0yILA/FRexe19VdI=" crossorigin="anonymous"></script> <script defer src="https://cdn.jsdelivr.net/npm/imagesloaded@5.0.0/imagesloaded.pkgd.min.js" integrity="sha256-htrLFfZJ6v5udOG+3kNLINIKh2gvoKqwEhHYfTTMICc=" crossorigin="anonymous"></script> <script defer src="/assets/js/masonry.js?a0db7e5d5c70cc3252b3138b0c91dcaf" type="text/javascript"></script> <script defer src="https://cdn.jsdelivr.net/npm/medium-zoom@1.1.0/dist/medium-zoom.min.js" integrity="sha256-ZgMyDAIYDYGxbcpJcfUnYwNevG/xi9OHKaR/8GK+jWc=" crossorigin="anonymous"></script> <script defer src="/assets/js/zoom.js?85ddb88934d28b74e78031fd54cf8308"></script> <script src="/assets/js/no_defer.js?2781658a0a2b13ed609542042a859126"></script> <script defer src="/assets/js/common.js?e0514a05c5c95ac1a93a8dfd5249b92e"></script> <script defer src="/assets/js/copy_code.js?12775fdf7f95e901d7119054556e495f" type="text/javascript"></script> <script defer src="/assets/js/jupyter_new_tab.js?d9f17b6adc2311cbabd747f4538bb15f"></script> <script async src="https://d1bxh8uas1mnw7.cloudfront.net/assets/embed.js"></script> <script async src="https://badge.dimensions.ai/badge.js"></script> <script defer type="text/javascript" id="MathJax-script" src="https://cdn.jsdelivr.net/npm/mathjax@3.2.2/es5/tex-mml-chtml.js" integrity="sha256-MASABpB4tYktI2Oitl4t+78w/lyA+D7b/s9GEP0JOGI=" crossorigin="anonymous"></script> <script src="/assets/js/mathjax-setup.js?a5bb4e6a542c546dd929b24b8b236dfd"></script> <script defer src="https://cdnjs.cloudflare.com/polyfill/v3/polyfill.min.js?features=es6" crossorigin="anonymous"></script> <script async src="https://www.googletagmanager.com/gtag/js?id=G-4YPBWP7QYF"></script> <script>
     window.dataLayer = window.dataLayer || [];
     function gtag() {
       dataLayer.push(arguments);
